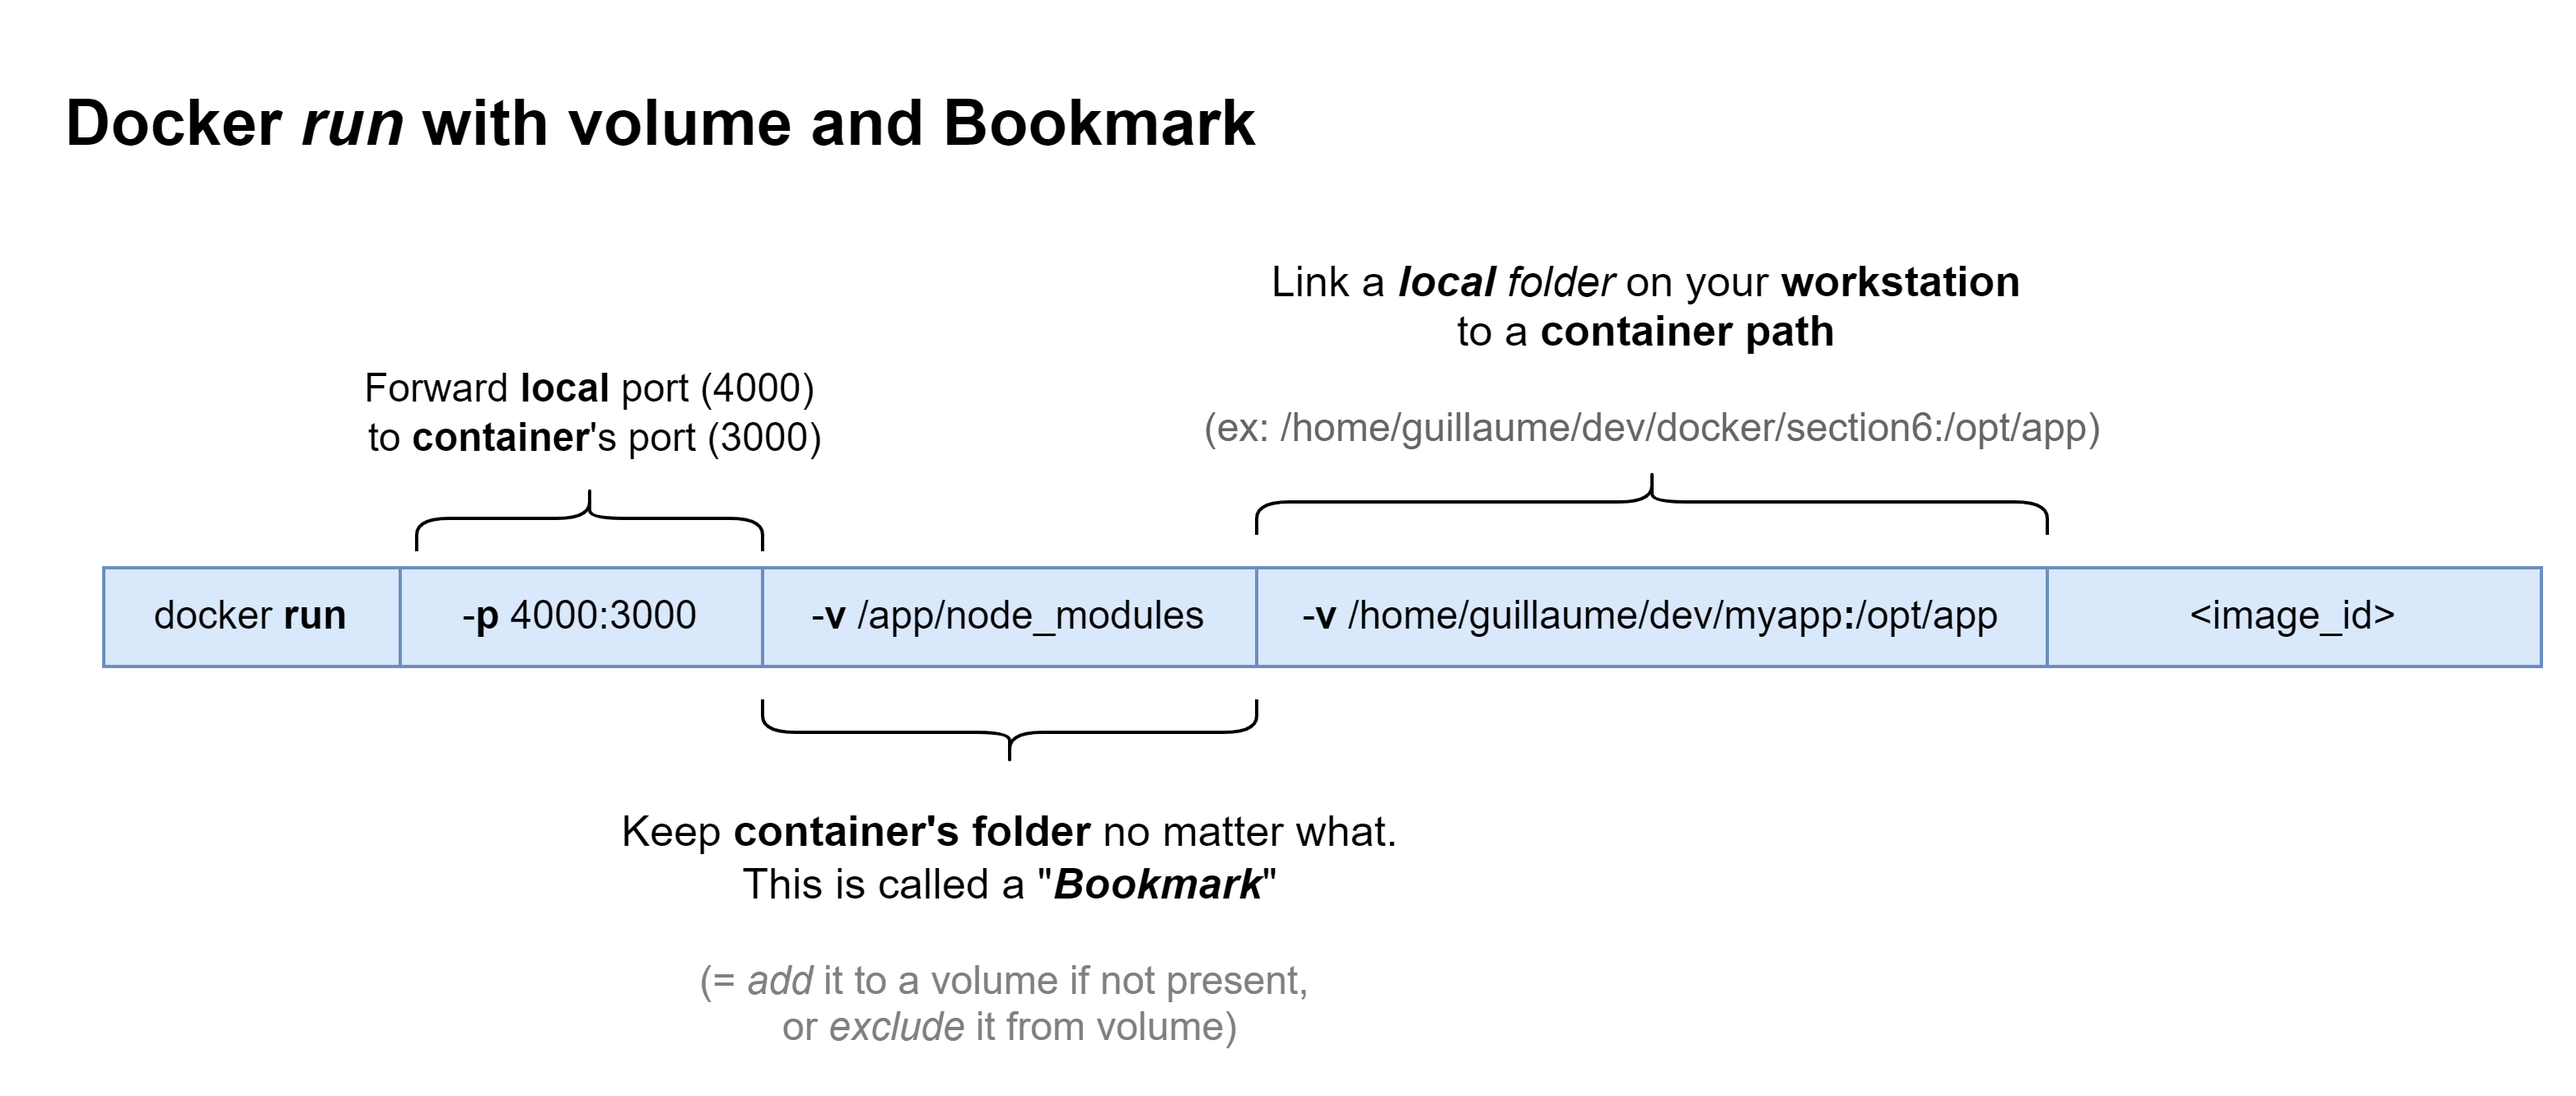
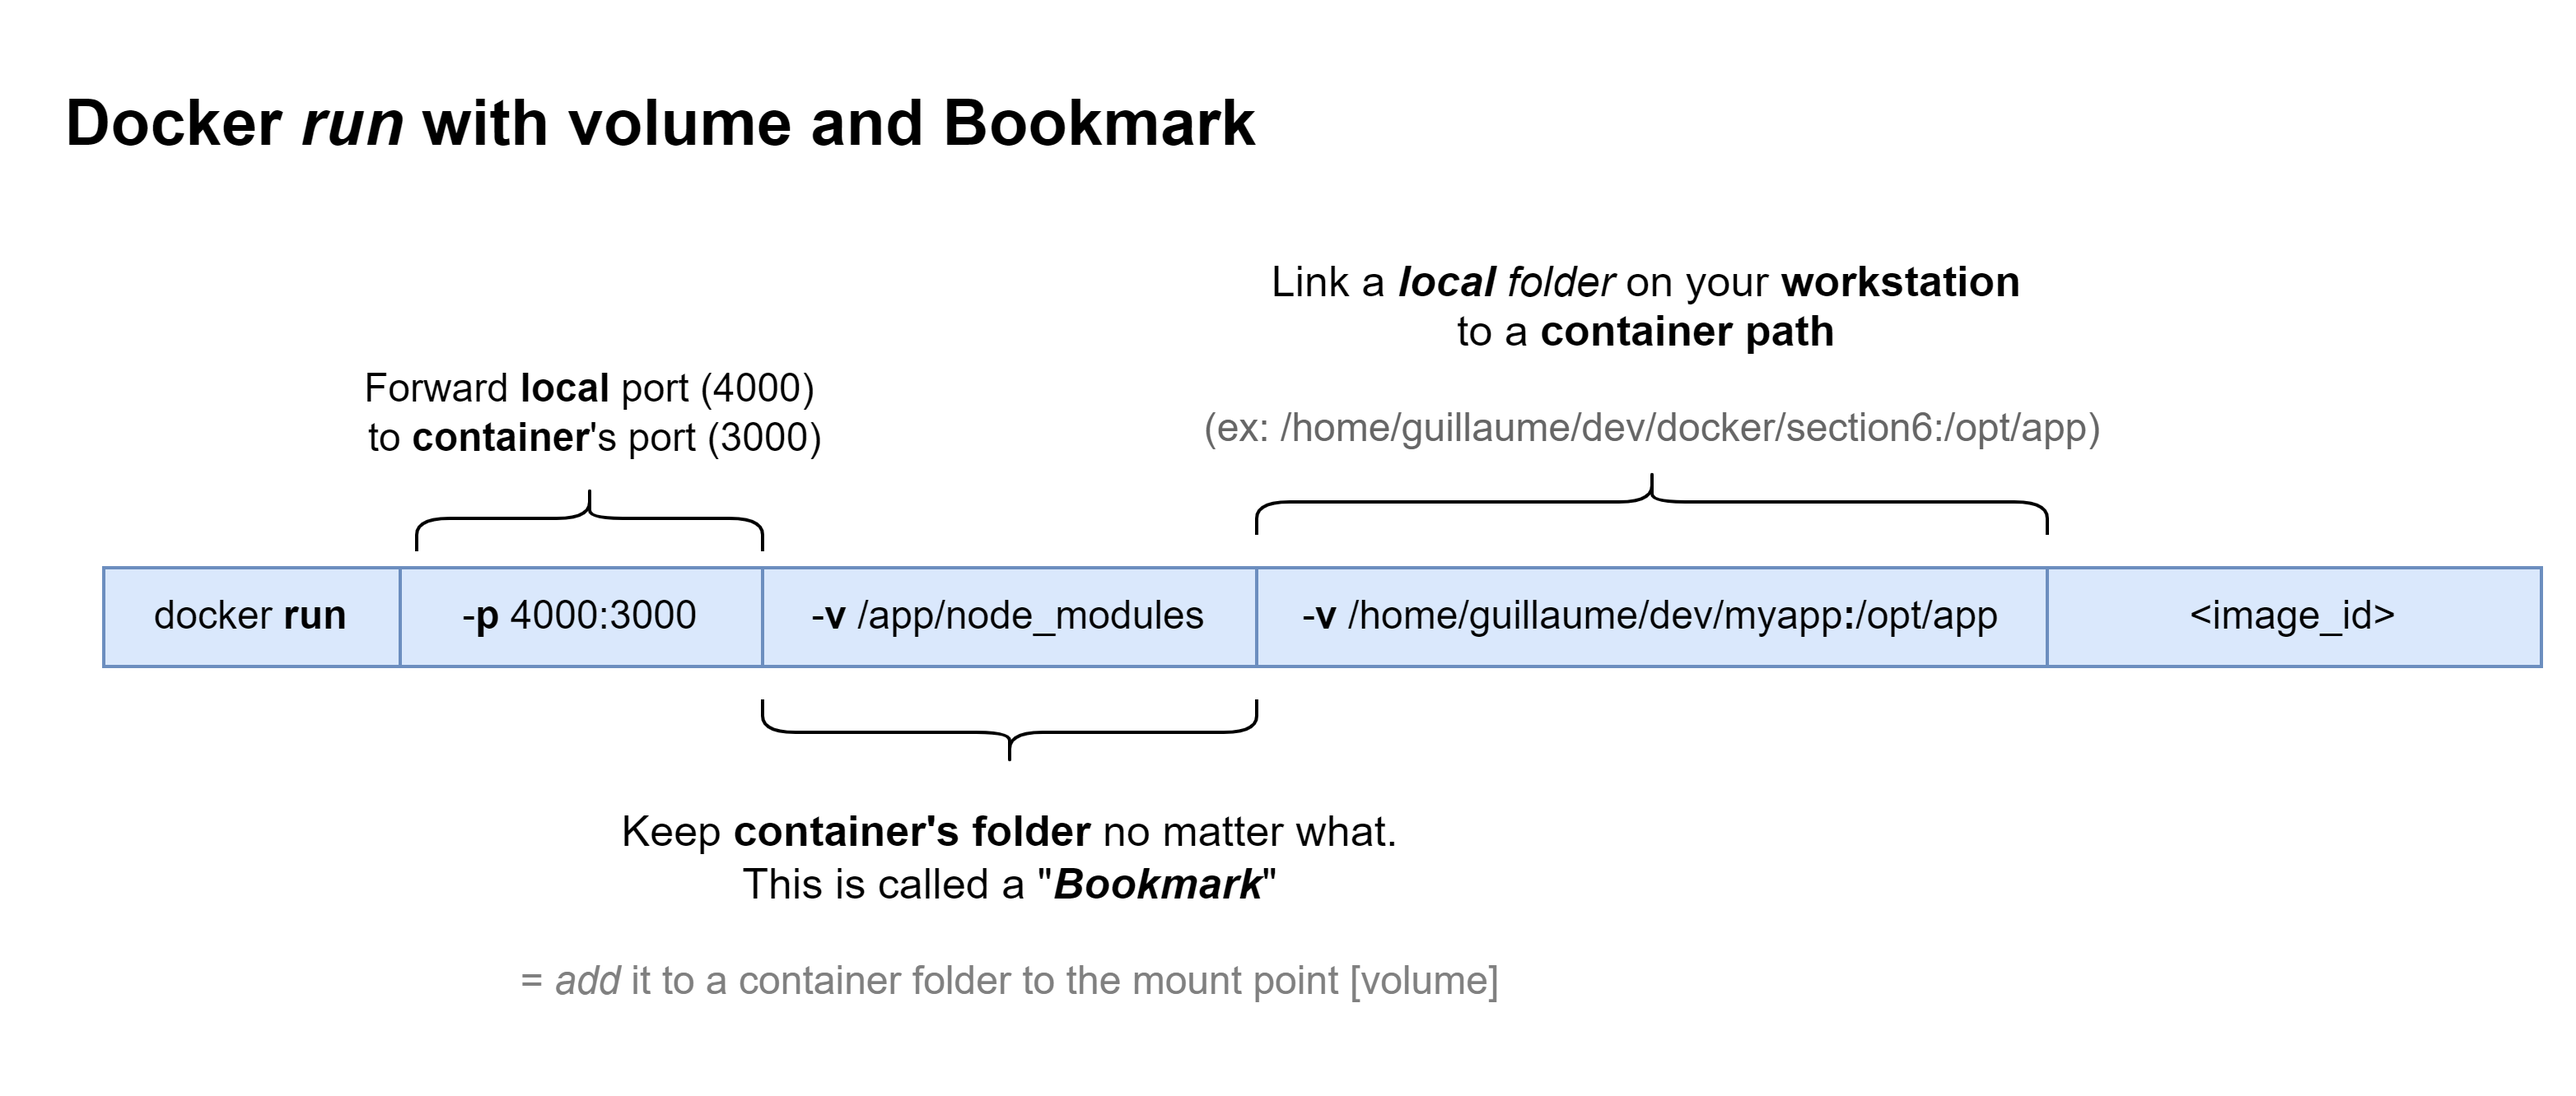
docker run with bookmark

Changed region(s): [[0.2171, 0.8619, 0.5892, 0.9542]]

diff --git a/docker/exercices/section_6/src/App.js b/docker/exercices/section_6/src/App.js
@@ -7,8 +7,7 @@ function App() {
       <header className="App-header">
         <img src={logo} className="App-logo" alt="logo" />
         <p>
-          Edit <code>src/App.js</code> and save to reload.<br>
-          This is a small change</br>
+          Hi there!  This is a change #2!
         </p>
         <a
           className="App-link"
@@ -16,7 +15,7 @@ function App() {
           target="_blank"
           rel="noopener noreferrer"
         >
-          Learn React           
+          Learn React
         </a>
       </header>
     </div>

diff --git a/docker/exercices/section_6/public/index.html b/docker/exercices/section_6/public/index.html
@@ -24,7 +24,7 @@
       work correctly both with client-side routing and a non-root public URL.
       Learn how to configure a non-root public URL by running `npm run build`.
     -->
-    <title>React App</title>
+    <title>Test Guillaume #3</title>
   </head>
   <body>
     <noscript>You need to enable JavaScript to run this app.</noscript>

diff --git a/docker/3.Docker_workflow_and_volumes.md b/docker/3.Docker_workflow_and_volumes.md
@@ -15,7 +15,7 @@ Create a real development, testing and production workflow with Docker and volum
   - [Definition](#definition)
   - [Impact on development speed](#impact-on-development-speed)
   - [Usage with Docker run](#usage-with-docker-run)
-  - [Tooling](#tooling)
+- [Tooling](#tooling)
 
 
 # Application creation workflow
@@ -183,7 +183,7 @@ Development flow with Docker:
 
 ## Usage with Docker run
 
-You can declare volume to `docker run` with argument `-v {localFilePath}:{containerPath}`. You can also add some exclusions `-v {containerPathToExcludeFromVolume}`
+You can declare volume to `docker run` with argument `-v {localFilePath}:{containerPath}`. You can also add some inclusions (bookmark) `-v {containerPathToAddToVolume}`
 
 :information_source: you can use a Linux command shortcut with `$(my_linux_command)`. 
 
@@ -196,20 +196,25 @@ You can declare volume to `docker run` with argument `-v {localFilePath}:{contai
 !["docker run with volume and bookmark"](./images/33_docker_run_with_volume_and_bookmark.png "docker run with volume and bookmark")
 
 
-ex: 
-* Map workstation port 4000 -to-> 3000, **local** folder `/home/guillaume/dev/docker/section6` to **workstation** `/opt/app`, and use image _section_6_frontend_
+examples: 
+* Map workstation port 4000 -to-> 3000, 
+* mount **local** folder `/home/guillaume/dev/docker/section6` to **workstation** `/opt/app`
+* use image _section_6_frontend_
   ```docker run -p 4000:3000 -v /home/guillaume/dev/docker/section6:/opt/app guihomediaz/section_6_frontend``` 
-* Map workstation port 4000 -to-> 3000, **local** _current_ folder to **workstation** `/opt/app`, and use image _section_6_frontend_
+
+* Instead of the full local path, you can use Linux commands as well:
   ```docker run -p 4000:3000 -v $(pwd):/opt/app guihomediaz/section_6_frontend``` 
-* Map workstation port 4000 -to-> 3000, **local** _current_ folder to **workstation** `/opt/app`, and use image _section_6_frontend_ + use a particular container's folder as well
+
+* **Add bookmark**. Add an additional folder from the container to the mounted point. This folder is only accessible by the docker container.
   ```docker run -p 4000:3000 -v /opt/app/node_modules -v $(pwd):/opt/app guihomediaz/section_6_frontend``` 
 
 
+:information_source: the first 2 examples will NOT work because the *node_modules* folder is only available inside the Docker container. that's why you need to use the 3rd command.
+
+Try to adjust ["section 6 app.js"](./exercices/section_6/src/App.js) or ["section 6 index.html"](./exercices/section_6/public/index.html). Changes should be taken into account immediately.
 
 
-
-
-## Tooling
+# Tooling
 * GIT repository = [GitHub](https://github.com/)
 * GIT client = [GIT SCM](https://git-scm.com/)
 * NodeJS = [NodeJS](https://nodejs.org/)

diff --git a/docker/1.Docker_core_concepts.md b/docker/1.Docker_core_concepts.md
@@ -183,6 +183,7 @@ Arguments:
 * Use the `-p {workstationPort}:{containerPort}` argument to forward incoming request _FROM_ local workstation's port number _TO_ a container's port.
 * use `-d` to execute the container in background. 
 * use `-v {localFilePath}:{containerPath}` to work with volumes. See dedicated section later on
+* use `--name {containerName}` to name your container, thus easily start/exec/stop it later on
 
 ![docker run port mapping](images/16_docker_port_mapping_run_argument.png "docker run port mapping")
 
@@ -212,7 +213,8 @@ To showcase the `docker run` command, we rely on ***[BusyBox](https://hub.docker
   ```docker run -it -p 4000:3000 -v /home/guillaume/dev/myapp:/opt/app guihomediaz/testapp```
 * Start container with port mapping (local 4000 to remote 3000) and volume (local command path to remote _/opt/app_)
   ```docker run -it -p 4000:3000 -v $(pwd):/opt/app guihomediaz/testapp```
-
+* Name a docker container
+  ```docker run --name section6_react -p 4000:3000 -v /opt/app/node_modules -v ${pwd}:/opt/app guihomediaz/section_6_frontend```
 
 :fire: When working on MS Windows, it is best to work with **wsl**, **gitBash** or **powershell**.
 
